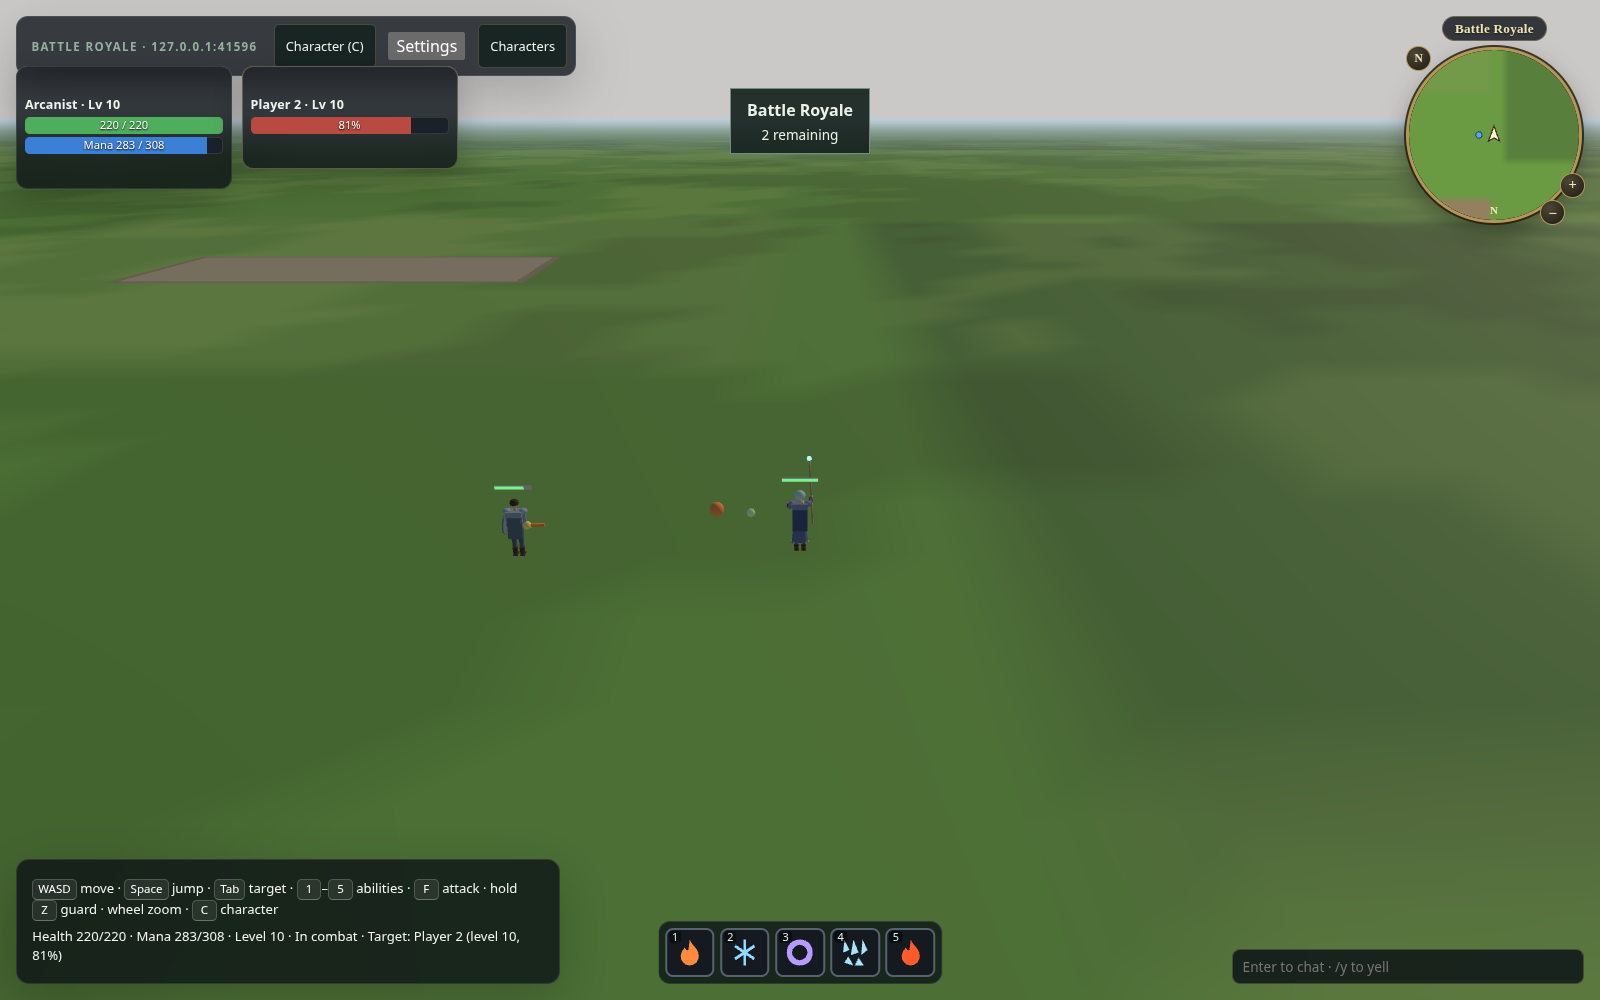
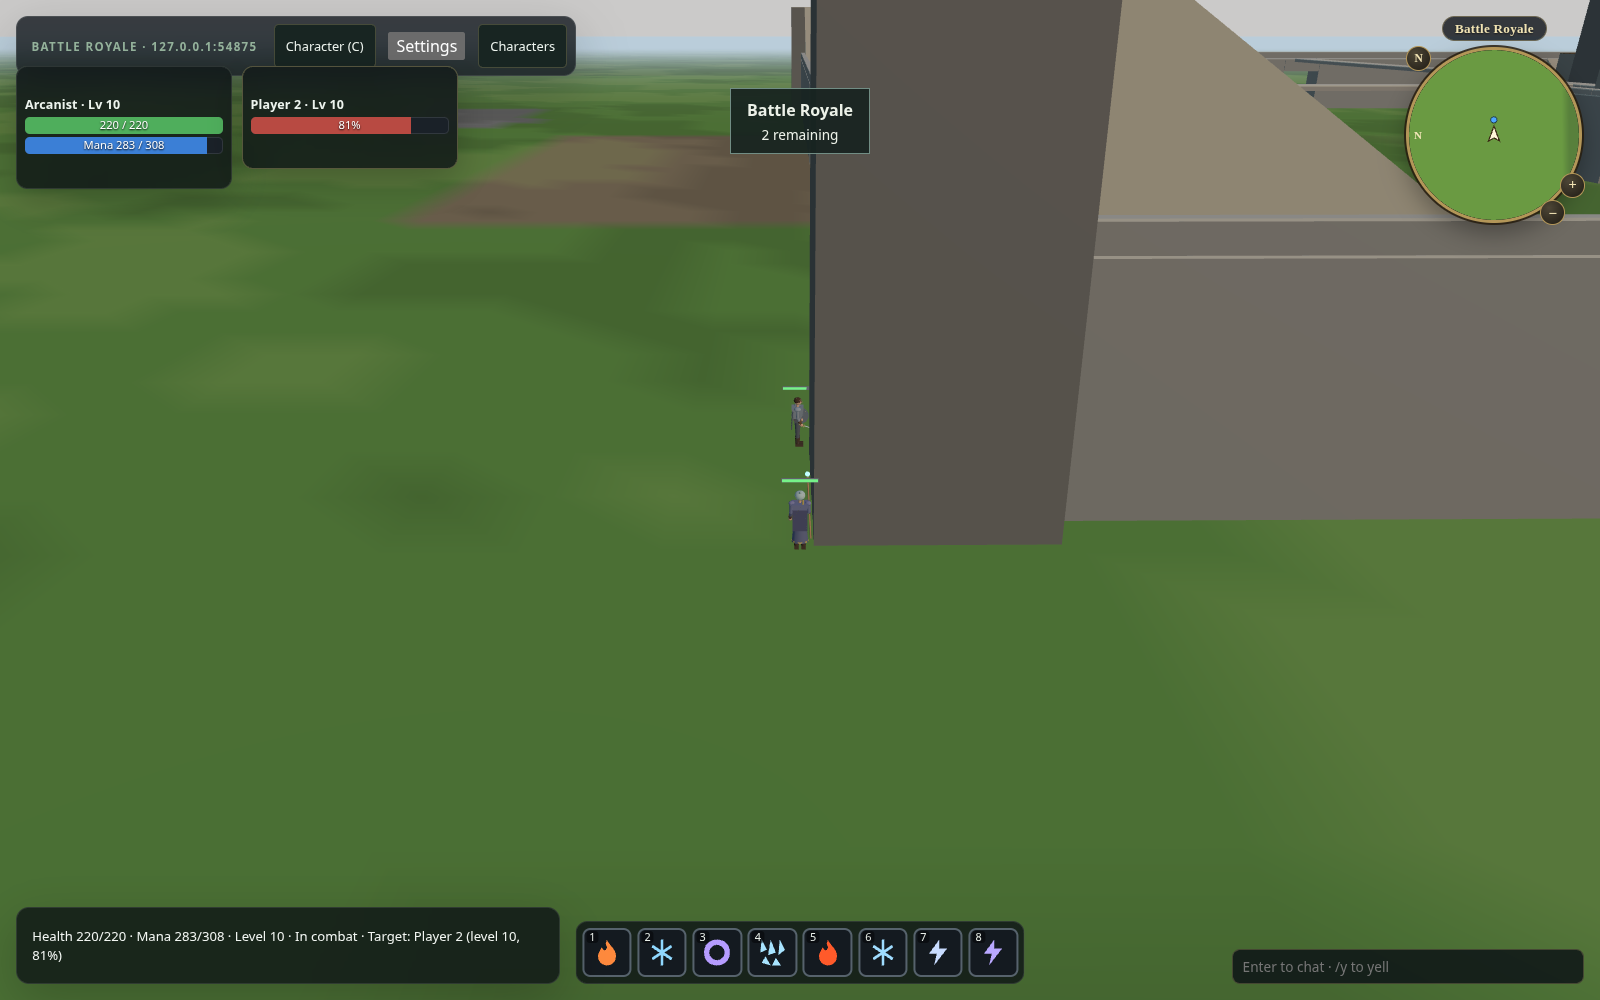
Pin battle-royale d633da2: ruleset 3 and sheet acknowledgements in hosted Battle Royale
- battle-royale-core moves from db76eaa to d633da2 (battle-royale #33). The host now speaks
  this workspace's PROTOCOL_ID, records sheet acknowledgements and runs ruleset 3, whose
  storm waits 60 s and closes over 120 s.
- The Battle Royale client decodes projections through the session's ProjectionDecoder and
  wraps character commands with the sheet revisions it holds. ActivityProtocol hooks receive
  that decoder.
- The hosted smoke turns the Arcanist toward its target with a right drag before casting
  (free aim, #517), so it ends with a winner.

diff --git a/web/src/world/battle-royale/protocol.ts b/web/src/world/battle-royale/protocol.ts
@@ -1,9 +1,11 @@
 /**
- * Battle Royale protocol/schema/ruleset 2, from battle-royale #18 at 5390ed8. The arena's content
+ * Battle Royale protocol 2, schema 2, ruleset 3 (battle-royale #33). The arena's content
  * revision is the shared fortress's (#552), read from `ArenaPresentation.contentRevision()`.
+ * The host sends zone sheets until a character command acknowledges them, as a zone host does
+ * (#544), so projections decode through the session's `ProjectionDecoder`.
  */
 import { encodeCommand, type WorldCommand } from "../../command-wire";
-import { decodeSnapshot, type ZoneSnapshot } from "../../replication";
+import type { ProjectionDecoder, ZoneSnapshot } from "../../replication";
 import { classChoiceCodes, type JoinCharacter } from "../world-source";
 
 export const ARENA_ZONE_ID = 100;
@@ -69,10 +71,13 @@ class Reader {
   }
 }
 
-/** `contentRevision` is the fortress content both host and client must run. */
-export function decodeMatchProjection(bytes: Uint8Array, contentRevision: bigint): MatchProjection {
+/**
+ * `contentRevision` is the fortress content both host and client must run; `sheets` is the
+ * session's decoder, holding the sheets the host sent earlier.
+ */
+export function decodeMatchProjection(bytes: Uint8Array, contentRevision: bigint, sheets: ProjectionDecoder): MatchProjection {
   const reader = new Reader(bytes);
-  if (new TextDecoder().decode(reader.bytes(4)) !== "BRPL" || reader.u16() !== 2 || reader.u16() !== 2 || reader.u64() !== 2n) {
+  if (new TextDecoder().decode(reader.bytes(4)) !== "BRPL" || reader.u16() !== 2 || reader.u16() !== 2 || reader.u64() !== 3n) {
     throw new Error("Unsupported Battle Royale projection version.");
   }
   const matchId = reader.u64();
@@ -101,7 +106,7 @@ export function decodeMatchProjection(bytes: Uint8Array, contentRevision: bigint
   }
   const zoneBytes = reader.u32();
   if (zoneBytes > 1024 * 1024) { throw new Error("Battle Royale zone projection is too large."); }
-  const zone = decodeSnapshot(reader.bytes(zoneBytes));
+  const zone = sheets.decode(reader.bytes(zoneBytes));
   reader.finish();
   const viewer = players.find((player) => player.id === zone.viewerId);
   if (zone.zoneId !== ARENA_ZONE_ID || zone.contentRevision !== contentRevision || !viewer ||
@@ -112,8 +117,9 @@ export function decodeMatchProjection(bytes: Uint8Array, contentRevision: bigint
     acknowledgedSequence, players, zone };
 }
 
-export function encodeCharacterCommand(command: WorldCommand): Uint8Array {
-  const inner = encodeCommand(command);
+/** A character command echoing the sheet revisions `sheets` holds, so the host stops resending them. */
+export function encodeCharacterCommand(command: WorldCommand, sheets: ProjectionDecoder): Uint8Array {
+  const inner = sheets.acknowledge(encodeCommand(command));
   const bytes = new Uint8Array(3 + inner.byteLength);
   bytes.set([2, 0, 3]);
   bytes.set(inner, 3);

diff --git a/web/src/world/online-zone-source.ts b/web/src/world/online-zone-source.ts
@@ -32,9 +32,11 @@ export const MAX_RECEIVED_PROJECTIONS = TICK_HZ;
 
 /** An ephemeral activity reuses session/reconnect delivery while supplying its game envelope. */
 export type ActivityProtocol = {
-  encodeCommand(command: WorldCommand): Uint8Array;
+  /** `sheets` is the session's decoder, for the sheet revisions a command echoes (#544). */
+  encodeCommand(command: WorldCommand, sheets: ProjectionDecoder): Uint8Array;
   initialCommand(character: JoinCharacter): Uint8Array;
-  decodeProjection(payload: Uint8Array): { snapshot: ZoneSnapshot; finished: boolean };
+  /** `sheets` is the session's decoder, which keeps the sheets the host sent earlier. */
+  decodeProjection(payload: Uint8Array, sheets: ProjectionDecoder): { snapshot: ZoneSnapshot; finished: boolean };
 };
 
 export type OnlineZoneOptions = {
@@ -459,7 +461,7 @@ export class OnlineZoneSource implements WorldSource {
 
   /** Validates and presents one verified snapshot frame of the current session. */
   #project(welcome: Welcome, frame: SnapshotFrame): void {
-    const activity = this.#activityProtocol?.decodeProjection(frame.payload);
+    const activity = this.#activityProtocol?.decodeProjection(frame.payload, this.#sheets);
     const snapshot = activity ? activity.snapshot : this.#sheets.decode(frame.payload);
     if (snapshot.contentRevision !== this.#contentRevision) {
       throw new Error(
@@ -702,7 +704,7 @@ export class OnlineZoneSource implements WorldSource {
 
   #encodeCommand(command: WorldCommand): Uint8Array {
     if (this.#activityProtocol) {
-      return this.#activityProtocol.encodeCommand(command);
+      return this.#activityProtocol.encodeCommand(command, this.#sheets);
     }
     // Combo inputs report the newest projection they were made against, so the zone can make up
     // for their travel time within its bounded grace (#415); it still judges them on arrival.

diff --git a/web/src/world/battle-royale/source.ts b/web/src/world/battle-royale/source.ts
@@ -29,8 +29,8 @@ export class BattleRoyaleSource implements WorldSource {
       activityProtocol: {
         encodeCommand: encodeCharacterCommand,
         initialCommand: (character) => encodeBuild(character, options.equipment(character)),
-        decodeProjection: (payload) => {
-          const match = decodeMatchProjection(payload, contentRevision);
+        decodeProjection: (payload, sheets) => {
+          const match = decodeMatchProjection(payload, contentRevision, sheets);
           if (match.matchId !== expectedMatch) {
             throw new Error("The host sent another Battle Royale match.");
           }

diff --git a/scripts/smoke-browser-battle-royale.py b/scripts/smoke-browser-battle-royale.py
@@ -29,6 +29,41 @@ ROOT = Path(__file__).resolve().parents[1]
 HELPERS = runpy.run_path(str(ROOT / "scripts" / "smoke-browser-online.py"))
 ARTIFACTS = ROOT / "artifacts" / "browser-battle-royale"
 SOURCE = "window.__valeDebug.worldSource()"
+# Signed yaw units (65536 per turn) from the viewer's facing to its selected target.
+AIM_ERROR = f"""(() => {{
+  const p = {SOURCE}.latestProjection();
+  const self = p.entities.find((e) => e.entityId === p.viewerId);
+  const target = p.entities.find((e) => e.entityId === p.viewer.target.id);
+  const bearing = Math.atan2(target.position[0] - self.position[0], target.position[2] - self.position[2]) / (2 * Math.PI) * 65536;
+  return ((Math.round(bearing - self.facing) % 65536) + 98304) % 65536 - 32768;
+}})()"""
+
+
+def face_target(page):
+    """Turns the character toward its target with a right drag, as a player does (#517 free aim)."""
+    page.mouse.move(800, 500)
+    page.mouse.down(button="right")
+    try:
+        x = 800.0
+        units_per_pixel = None
+        for _ in range(30):
+            error = page.evaluate(AIM_ERROR)
+            if abs(error) < 1200:
+                return
+            if units_per_pixel is None:
+                step = 40.0
+            else:
+                step = max(-300.0, min(300.0, error / units_per_pixel))
+            before = error
+            x += step
+            page.mouse.move(x, 500, steps=4)
+            page.wait_for_timeout(150)
+            turned = before - page.evaluate(AIM_ERROR)
+            if abs(turned) > 50:
+                units_per_pixel = turned / step
+        raise AssertionError(f"could not face the target: {page.evaluate(AIM_ERROR)} yaw units off")
+    finally:
+        page.mouse.up(button="right")
 
 
 def run(host_binary: Path):
@@ -102,6 +137,8 @@ def run(host_binary: Path):
         initial = second.evaluate(f"{SOURCE}.latestProjection().viewer.health")
         first.mouse.move(1000, 600)
         first.mouse.wheel(0, 600)
+        face_target(first)
+        first.wait_for_function(f"{SOURCE}.latestProjection()?.viewer.target?.kind === 'player'")
         first.keyboard.press("1")
         second.wait_for_function(f"{SOURCE}.latestProjection()?.viewer.health < {initial}", timeout=10_000)
         first.screenshot(path=str(ARTIFACTS / "pvp-hit.png"))

diff --git a/docs/BATTLE_ROYALE.md b/docs/BATTLE_ROYALE.md
@@ -84,12 +84,14 @@ authoritative Battle Royale server.
 
 ## Local hosted path
 
-Use a `battle-royale` revision with the fortress (#31), at or after
-**db76eaa48f4df3c5084a51ca9d0857b01bff4832**, whose core/protocol pin is this checkout's MMORPG
-revision or at least its snapshot/command versions (that revision pins MMORPG `6d744b7`, before
-the #566 sheet acknowledgement, so until Renovate re-pins it, `[patch]` its `mmorpg-core` and
-`mmorpg-protocol` to this checkout). Mode protocol/schema/ruleset 2 wrap the MMORPG snapshot
-and command. Different versions or another arena content revision fail closed.
+Use the `battle-royale` revision this workspace pins,
+**d633da2c90cb230b78e19c9975609002bc616400** (battle-royale #33), or a later one whose
+core/protocol pin carries this checkout's `PROTOCOL_ID` (it pins MMORPG `fc65842`, after the
+#566 sheet acknowledgement). Mode protocol 2, schema 2 and ruleset 3 wrap the MMORPG snapshot
+and command. Character commands echo the sheet revisions the session's decoder holds, and the
+host sends a sheet only until a command acknowledges it, as a zone host does. Ruleset 3's storm
+waits 60 s and closes over 120 s, so it reaches no spawn slot in the first two minutes of
+combat. Different versions or another arena content revision fail closed.
 
 With that checkout beside this one:
 
@@ -119,13 +121,14 @@ python3 scripts/smoke-browser-battle-royale.py --host /path/to/battle-royale-hos
 ```
 
 This explicit smoke reuses the ordinary online smoke's TLS, ports and static-file
-handler. Two actual Chromium clients select builds, fight using normal input, observe
+handler. Two actual Chromium clients select builds, fight using normal input (Tab to target, a
+right drag to face the target since offensive abilities fire where the character faces, #517), observe
 a real hit, elimination and the same winner, change class/equipment between lives,
 and enter match 2. A client screenshot and the result are written to ignored
 `artifacts/browser-battle-royale/`. It does not use a mocked transport, private health
 edits, a local PvP simulation or a separate renderer.
 
-The implementation run passed the two-browser journey, including Arcanist → Ranger and an empty off hand in match 2. The captured real-client hit below shows both players, the actual target health and spent mana.
+The battle-royale #33 run passed the two-browser journey on the fortress against host `d633da2`: the Arcanist won match 1, then Arcanist → Ranger and an empty off hand in match 2. The captured real-client hit below shows both players by the south-west corner tower, the actual target health and spent mana.
 
 ![Two real browser players fighting through the hosted MMORPG combat](reviews/battle-royale/pvp-hit.png)
 
